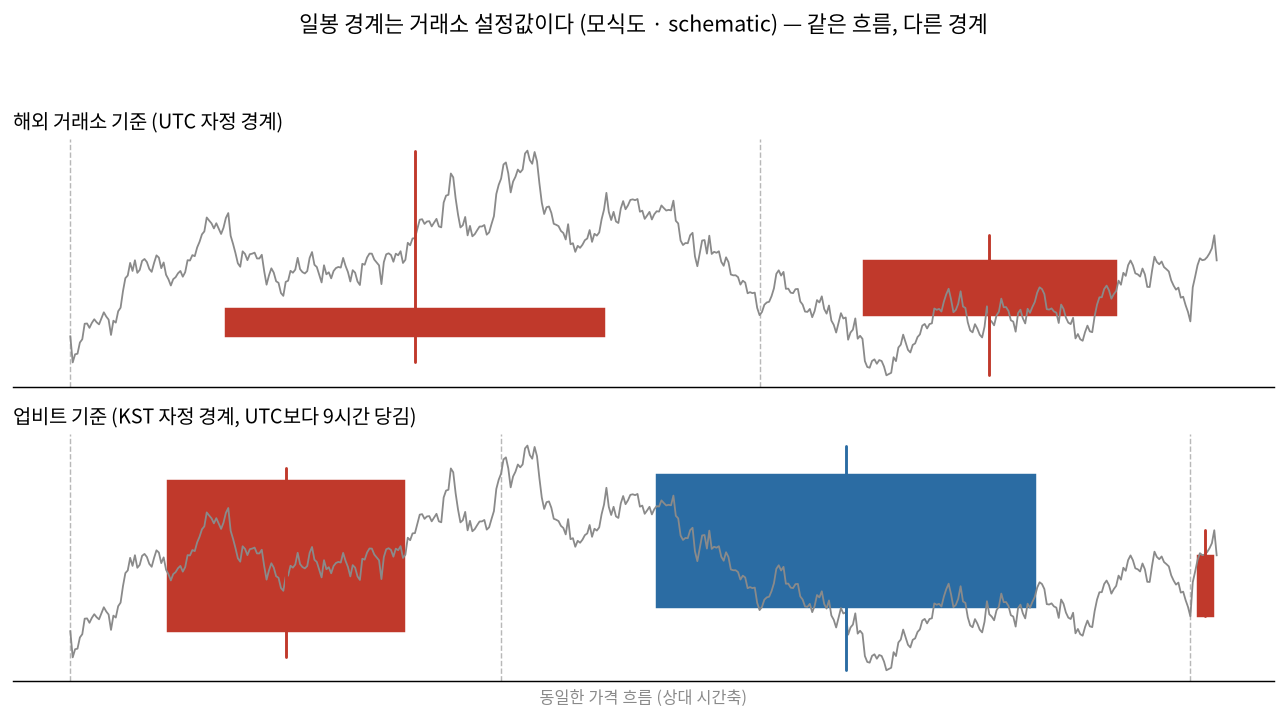
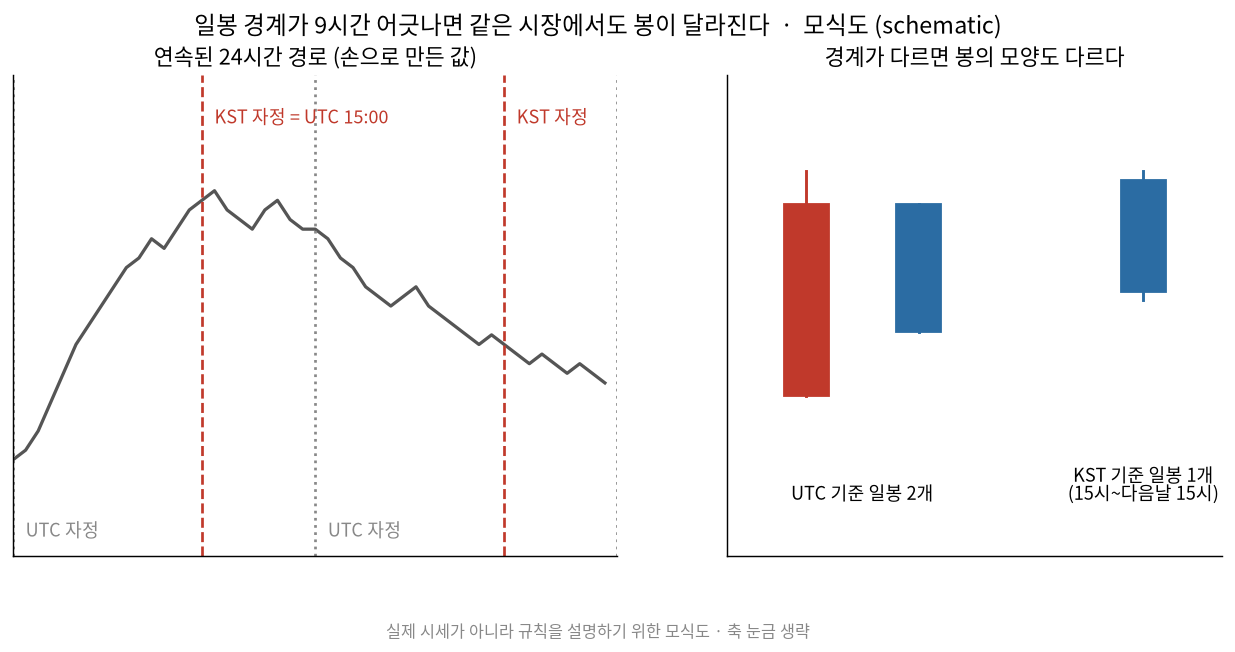
study(C52): publish XMR 비석형 도지 - 약세

diff --git a/content/study/xmr-gravestone-doji-bearish.md b/content/study/xmr-gravestone-doji-bearish.md
@@ -1,0 +1,106 @@
+---
+title: "모네로 비석형 도지, 긴 윗꼬리 하나로 천장을 말할 수 있나 (Gravestone Doji - Bearish on Monero)"
+description: "봉 하나의 모양으로 약세 반전을 읽는 비석형 도지를 정의부터 해부하고 모네로에 놓고 따져 본다. We dissect the Gravestone Doji rule on Monero as pure theory, with no market data."
+date: 2026-10-25T19:59:05+09:00
+draft: false
+markets: ["crypto"]
+tags: ["지표스터디", "기술적지표", "자동매매", "암호화폐", "모네로"]
+summary: "비석형 도지는 시가·저가·종가가 한 점에 모이고 윗꼬리만 긴 봉이다. 이 한 줄짜리 규칙이 무엇을 재고 무엇을 못 보는지 모네로를 무대로 따져 봤다."
+---
+
+이번 편은 시세를 받아 성과를 검증한 글이 아니라 규칙 자체를 해부한 글이다. 승률을 적지 않은 이유도 그래서다. 아래 그림은 전부 **실제 시세가 아니라 규칙을 설명하기 위한 모식도**고, 손으로 만든 값이다. 가격 눈금도 일부러 지웠다.
+
+## 서론: 봉 하나짜리 규칙을 왜 보나
+
+내 봇은 지금까지 지표를 숫자로 계산하는 쪽이었다. 이동평균이든 RSI든 여러 봉을 모아서 한 값을 만든다. 캔들 패턴은 정반대다. **봉 하나의 모양**만 본다. 입력이 가장 적은 규칙이니 구현은 쉽다. 그런데 쉬운 규칙일수록 "이게 정말 신호인가"를 따져 보지 않고 넘어가기 쉽다.
+
+이번에 해부할 것은 비석형 도지(Gravestone Doji)의 약세 버전이다. 이름 그대로 묘비처럼 생겼다. 땅에 해당하는 아래쪽에는 거의 아무것도 없고, 위로 긴 막대 하나가 서 있다. 트레이딩뷰에서는 캔들 패턴 스크립트의 한 항목으로 들어 있고, 이름 뒤에 '약세'가 붙는 건 "이 모양이 나오면 상승이 끝났다고 해석한다"는 뜻이다.
+
+이번 회차의 무대는 모네로(XMR)다. 가격은 보지 않는다. 모네로는 프라이버시 코인이라서, 차트 밖의 사정(거래소 상장 유지 여부 같은 것)이 별도로 얹히는 자산이라는 점만 사고 실험에 가져온다. 이 코인의 최근 사건이나 구체적인 수치는 확실하지 않으면 쓰지 않기로 했다.
+
+## 본론 1: 무엇을 재는가
+
+봉 하나는 네 숫자로 정의된다. 시가·고가·저가·종가, 흔히 OHLC라고 부르는 것이다. 비석형 도지는 이 네 숫자의 관계로 정의한다.
+
+- 시가, 저가, 종가가 거의 같은 자리에 있다.
+- 고가만 그 위로 멀리 떨어져 있다.
+
+![비석형 도지의 구조](/img/study/xmr-01-gravestone-anatomy.png)
+
+그림 1이 그 모양이다. 이걸 조건문으로 옮기면 다음과 같다.
+
+```
+range      = high - low
+body       = abs(close - open)
+lower_wick = min(open, close) - low
+upper_wick = high - max(open, close)
+
+body       <= range * a      # 몸통이 범위에 비해 아주 작다
+lower_wick <= range * b      # 아랫꼬리가 거의 없다
+upper_wick >= range * c      # 윗꼬리가 범위의 대부분이다
+```
+
+여기서 `a`, `b`, `c`가 파라미터다. 어떤 값이어야 "도지"인지는 정해진 표준이 없다. 몸통이 완전히 0이어야 한다고 보는 사람도 있고, 범위의 몇 퍼센트 이내면 된다고 보는 사람도 있다. 나는 특정 도구의 기본값을 외워서 적지 않는다. 확신이 없는 숫자를 정의처럼 적으면 그 글을 읽고 따라 구현한 사람이 틀린 값으로 봇을 돌리게 된다.
+
+이 규칙이 가정하는 심리는 이렇다. 그 봉이 열려 있는 동안 매수 쪽이 가격을 위로 크게 밀어 올렸다. 그런데 마감 시점에는 그 상승분을 전부 되돌려 처음 자리로 돌아왔다. 올라간 가격을 받아 주는 사람이 없었다는 해석이다. 그래서 상승 추세의 끝에 나오면 천장 신호로 읽는다.
+
+## 본론 2: 어떻게 계산하나, 그리고 첫 번째 구멍
+
+이 규칙에는 곱하기도 나누기도 거의 없다. 비교 몇 번이 전부다. 그래서 계산이 틀릴 일은 없다. 틀리는 건 **해석**이다.
+
+첫 번째 구멍은 맥락이다. 위의 조건문은 봉 하나만 본다. 그런데 같은 모양이 하락 추세 끝에 나오면 의미가 전혀 달라진다. 하락 중에 위로 한번 찔러 봤다가 되돌아온 것뿐이라서, 약세 신호라고 부를 근거가 약하다. 횡보 중에는 더 말할 것도 없다.
+
+![같은 모양 다른 맥락](/img/study/xmr-02-context-compare.png)
+
+그림 2는 같은 봉을 세 군데에 놓은 것이다. 모양 검출 규칙은 세 곳 모두에서 참을 낸다. 그러니 "약세 반전"이라는 이름을 붙이려면 **앞선 추세가 있었다**는 조건을 따로 넣어야 한다. 이게 두 번째 규칙이다. 보통은 직전 몇 개 봉의 종가가 계속 올랐는지, 또는 이동평균 위에 있었는지로 구현한다. 몇 개 봉을 볼지가 또 하나의 파라미터가 되고, 그 순간 "파라미터 없는 단순한 규칙"이라는 장점이 사라진다.
+
+두 번째 구멍은 임계값이다.
+
+![임계값 변화](/img/study/xmr-04-threshold-variants.png)
+
+그림 4는 `a`와 `b`를 바꿨을 때 어떤 봉이 도지로 인정되는지를 보여 준다. 기준을 느슨하게 잡으면 몸통이 꽤 큰 봉도 통과한다. 그건 눈으로 보면 더 이상 묘비가 아니다. 반대로 너무 엄격하게 잡아 몸통이 정확히 0이어야 한다고 하면 거의 아무것도 검출되지 않는다. 시가와 종가가 한 틱도 안 틀리고 같을 일은 드물기 때문이다. 이 사이 어딘가에서 값을 골라야 하고, 고르는 순간 과최적화의 문이 열린다.
+
+## 본론 3: 무엇을 못 보는가
+
+이 규칙이 못 보는 것을 정리하면 이렇다.
+
+**하나, 봉 안에서 일어난 일의 순서.** 윗꼬리는 "올랐다가 내려왔다"는 걸 알려 주지만 얼마나 오래 머물렀는지는 모른다. 한 시간 내내 높은 곳에 있다가 막판에 내려온 봉과, 순간적인 급등락이 한 번 있었던 봉이 똑같이 그려진다. 앞쪽은 매수세가 실제로 받혀 줬다가 무너진 것이고 뒤쪽은 체결이 얇은 순간에 호가가 튄 것일 수 있다. 봉 모양만으로는 둘을 못 가른다.
+
+**둘, 거래량.** 모양 규칙은 가격 네 개만 쓴다. 같은 모양이라도 거래가 활발했던 봉과 한산했던 봉은 무게가 다르다. 거래량 조건을 붙이면 파라미터가 하나 더 늘어난다.
+
+**셋, 확인.** 이 패턴은 보통 "다음 봉이 이 봉의 저점을 깨면 확정"이라는 확인 조건과 함께 쓴다. 확인 없이 도지만 보고 들어가면 도지 직후 다시 오르는 경우를 전부 맞아야 한다. 확인을 기다리면 진입이 한 봉 늦어지고, 그 사이 꼬리 끝에서 되돌린 폭의 상당 부분은 이미 지나간다. 빠르면 속고 늦으면 먹을 게 없는, 후행성과 오탐의 교환이다.
+
+**넷, 이 코인의 성격.** 모네로는 프라이버시 코인이다. 이런 자산은 차트의 가격 논리 말고도 거래소 상장 유지 같은 제도 쪽 이벤트가 따로 있다. 이런 소식으로 갑자기 나오는 긴 꼬리는 심리 해석("올려 봤는데 받아 주는 사람이 없었다")과 전혀 다른 원인에서 생긴 것일 수 있다. 캔들 규칙은 원인을 구분하지 않는다.
+
+## 본론 4: 코인 시장의 함정 — 봉의 경계는 거래소 설정이다
+
+주식은 장이 열리고 닫히니 일봉의 시가와 종가가 자연스럽게 정해진다. 코인은 24시간 돈다. 그래서 일봉이 언제 끊기는지는 **거래소가 정한 값**일 뿐이다. 업비트는 한국 시간 자정, 해외 거래소는 대개 UTC 자정이다. 둘 사이가 아홉 시간이다.
+
+![일봉 경계 차이](/img/study/xmr-03-day-boundary.png)
+
+그림 3이 그 문제를 보여 준다. 같은 연속 경로를 UTC 자정에서 자르면 봉이 둘이 나오고, KST 자정에서 자르면 다른 모양의 봉이 나온다. 시가와 종가가 바뀌고 고가·저가도 바뀐다. 이 글의 주제로 돌려 말하면, **A 거래소 차트에는 있는 비석형 도지가 B 거래소 차트에서는 없을 수 있다**. 몸통이 작은지를 따지는 규칙은 시가와 종가라는 두 숫자에 전적으로 의존하는데, 그 두 숫자가 경계 설정 하나로 달라지기 때문이다.
+
+주식처럼 휴장이 없어서 갭이 드물다는 점도 걸린다. 캔들 패턴 중에는 갭을 전제로 하는 것(갭 상승 후 도지 같은)이 많다. 비석형 도지는 갭이 필수는 아니지만, 이 이름의 원전이 되는 서술은 장이 끊기는 시장을 가정하고 나왔다. 24시간 시장에서 "마감 시점에 시작한 자리로 돌아왔다"는 문장이 갖는 무게는 다르다. 마감이라는 사건 자체가 약속된 시각의 시계 눈금일 뿐이기 때문이다.
+
+그리고 현물 시장에는 공매도가 없다. 이 규칙은 약세 신호다. 약세 신호가 나와도 현물 계좌로는 숏 진입을 할 수 없고, 가진 물량을 청산하는 쪽으로만 쓸 수 있다. 신호의 절반이 쓸 수 없는 방향이라는 뜻이다.
+
+## 결론: 내 봇에 넣을 것인가
+
+내 봇 구조에서 진입 게이트는 여러 조건을 겹쳐서 통과하는 방식이다. 이 패턴을 거기에 나란히 놓고 비교해 본다.
+
+- 입력이 봉 하나라 가볍고 설명이 쉽다. 이 점은 장점이다.
+- 임계값 `a`, `b`, `c`와 추세 조건의 길이까지 합치면 파라미터가 사실상 네 개 이상이다. "단순하니 과최적화에서 자유롭다"는 말은 이 규칙에는 맞지 않는다.
+- 일봉 경계가 거래소 설정에 따라 달라서, 같은 코드가 거래소를 바꾸면 다른 신호를 낸다.
+- 현물 전용이라 약세 신호를 진입으로 못 쓴다.
+
+그래서 **진입 신호로는 넣지 않기로 했다.** 넣지 않는 이유가 위 네 줄이고, 나중에 조건이 바뀌면 다시 판단하려고 이유를 남겨 둔다. 다만 보유 중인 포지션의 **경고등**으로는 쓸 여지가 있다. 이미 상승 구간에서 들고 있고, 이 패턴이 나왔을 때 곧바로 팔지 않고 손절선만 올려 두는 식이다. 신호가 틀려도 손해가 작은 용도다. 이 부분은 이 글에서 검증하지 않았고, 검증하려면 시세를 받아서 따로 재야 한다.
+
+이번 편은 규칙의 정의와 한계를 다룬 이론 해설이다. 어떤 수익도 주장하지 않는다. 그리고 이 글은 투자 권유가 아니다.
+
+## 약어 풀이
+
+- **XMR** (Monero) — 모네로의 티커.
+- **OHLC** (Open, High, Low, Close) — 시가·고가·저가·종가. 봉 하나를 이루는 네 가격.
+- **RSI** (Relative Strength Index) — 상대강도지수. 최근 상승폭과 하락폭의 비율로 과열을 재는 지표.
+- **UTC** (Coordinated Universal Time) — 협정 세계시. 해외 거래소 일봉의 기준이 되는 시각.
+- **KST** (Korea Standard Time) — 한국 표준시. UTC보다 9시간 빠르다.
